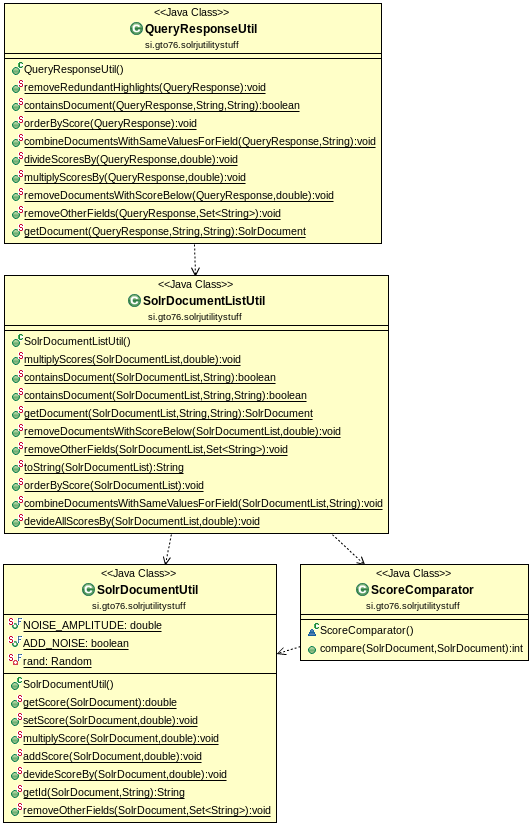
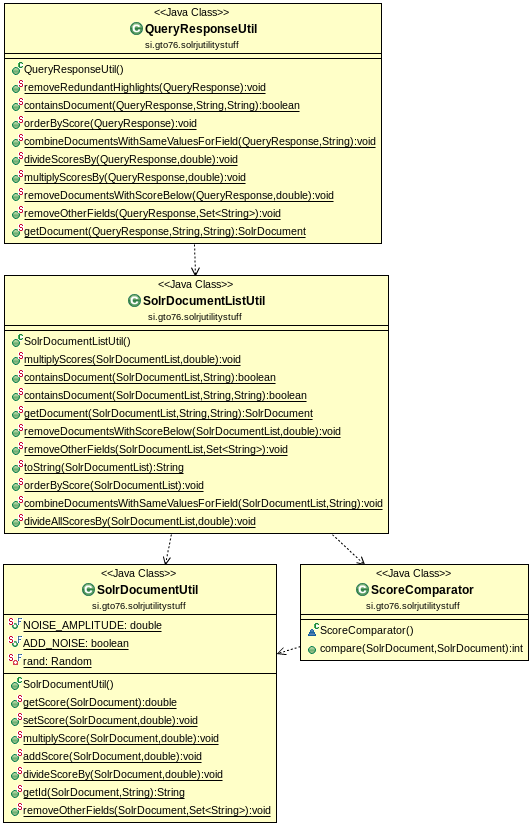
spelling

Changed region(s): [[0.0602, 0.6053, 0.4812, 0.6356], [0.0602, 0.908, 0.2707, 0.9685], [0.3008, 0.908, 0.4211, 0.9685]]

diff --git a/src/si/gto76/solrjutilitystuff/SolrDocumentListUtil.java b/src/si/gto76/solrjutilitystuff/SolrDocumentListUtil.java
@@ -105,9 +105,9 @@ public class SolrDocumentListUtil {
 
 	}
 
-	public static void devideAllScoresBy(SolrDocumentList ddd, double divider) {
+	public static void divideAllScoresBy(SolrDocumentList ddd, double divider) {
 		for (SolrDocument d : ddd) {
-			SolrDocumentUtil.devideScoreBy(d, divider);
+			SolrDocumentUtil.divideScoreBy(d, divider);
 		}
 	}
 

diff --git a/src/si/gto76/solrjutilitystuff/QueryResponseUtil.java b/src/si/gto76/solrjutilitystuff/QueryResponseUtil.java
@@ -48,7 +48,7 @@ public class QueryResponseUtil {
 	}
 
 	public static void divideScoresBy(QueryResponse qr, double divider) {
-		SolrDocumentListUtil.devideAllScoresBy(qr.getResults(), divider);
+		SolrDocumentListUtil.divideAllScoresBy(qr.getResults(), divider);
 	}
 
 	public static void multiplyScoresBy(QueryResponse qr, double factor) {

diff --git a/src/si/gto76/solrjutilitystuff/SolrDocumentUtil.java b/src/si/gto76/solrjutilitystuff/SolrDocumentUtil.java
@@ -42,7 +42,7 @@ public class SolrDocumentUtil {
 		setScore(doc, oldScore + addend);
 	}
 
-	public static void devideScoreBy(SolrDocument doc, double divider) {
+	public static void divideScoreBy(SolrDocument doc, double divider) {
 		double oldScore = getScore(doc);
 		setScore(doc, oldScore / divider);
 	}
